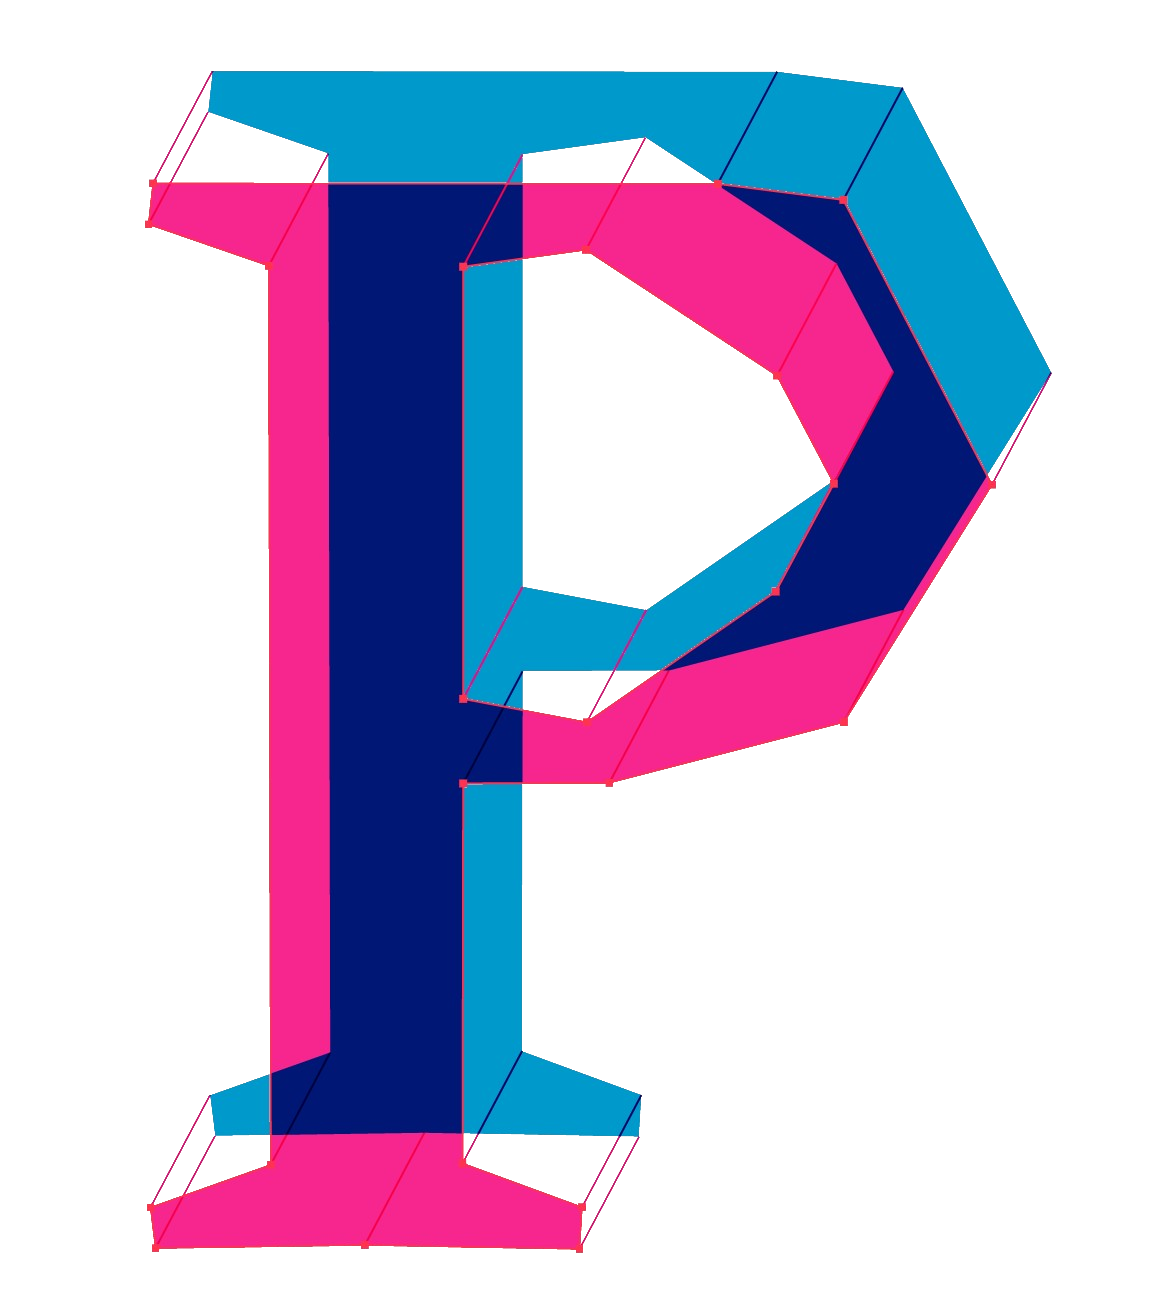
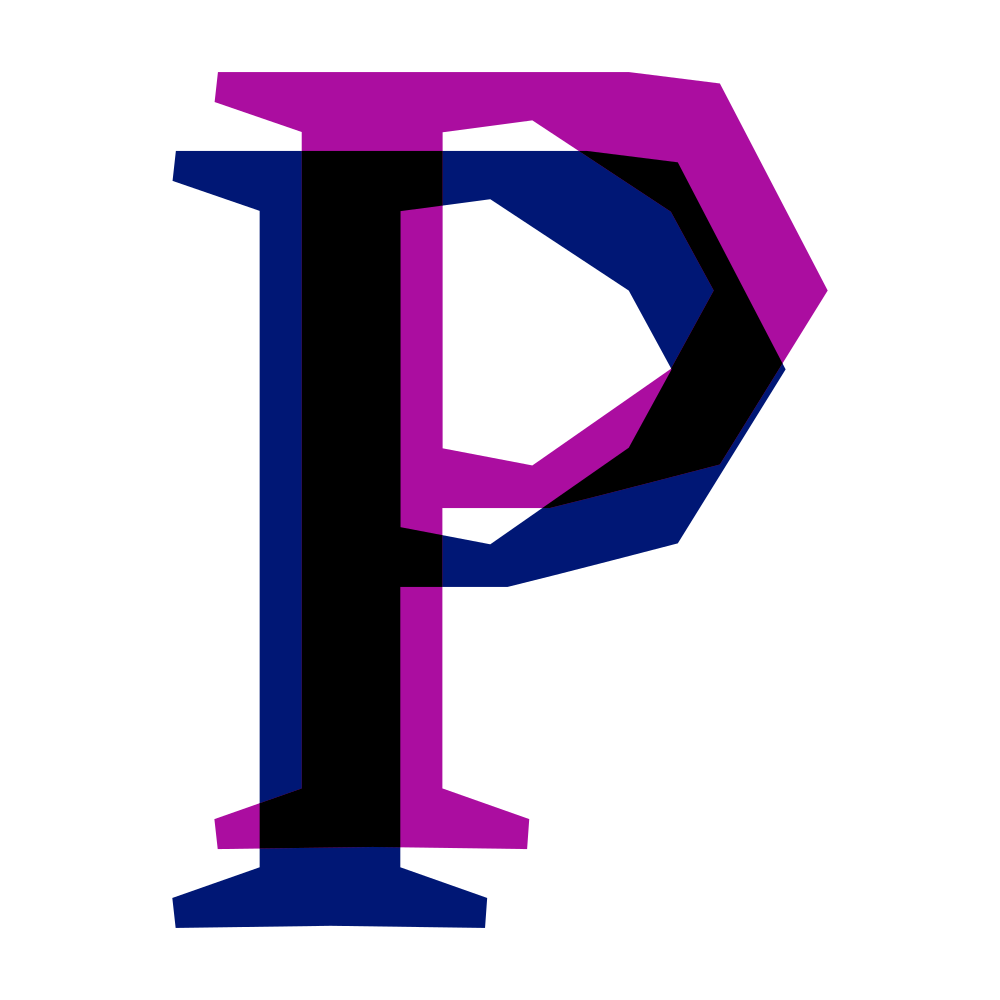
Branding angepasst

diff --git a/assets/styles/variables.scss b/assets/styles/variables.scss
@@ -26,7 +26,7 @@ $themes: (
     // ptf-blau (wird noch nicht verwendet)
     'main-color': #001775,
     // ptf-lila
-    'accent-color': #9800ad,
+    'accent-color': #ab0da0,
     // arbeitsgrün: #64DB30,
     //ptf-blau
     'hover-over-accent-color': #001775,
@@ -46,8 +46,8 @@ $themes: (
     'text-color': #000000,
     // ptf-blau
     'inverse-text-color': #001775,
-    // ptf-lila
-    'muted-text-color': #9800ad,
+    // ptf-blau
+    'muted-text-color': #001775 ,
     // red 600
     'inline-code-color': #dc2626,
     // amber 200

diff --git a/assets/styles/navigators/navbar.scss b/assets/styles/navigators/navbar.scss
@@ -123,7 +123,7 @@
   &.transparent-navbar {
     background-color: transparent !important;
     .navbar-brand {
-      color: get-light-color('inverse-text-color');
+      color: get-light-color('accent-color');
     }
     li {
       a {

diff --git a/assets/styles/sections/home.scss b/assets/styles/sections/home.scss
@@ -49,7 +49,9 @@
     margin-bottom: 10px;
   }
 
-  .greeting,
+  .greeting {
+    color: get-light-color('accent-color');
+  }
   .greeting-subtitle {
     color: get-light-color('text-over-accent-color');
   }

diff --git a/assets/styles/sections/experiences.scss b/assets/styles/sections/experiences.scss
@@ -97,6 +97,7 @@
     h5 {
       display: inline;
       margin-right: 0.25em;
+      color: get-light-color('accent-color');
     }
     p {
       display: inline;

diff --git a/assets/styles/components/texts.scss b/assets/styles/components/texts.scss
@@ -3,7 +3,7 @@ h2,
 h3,
 h4,
 h5 {
-  color: get-light-color('heading-color');
+  color: get-light-color('accent-color');
   margin-top: 10px;
 }
 
